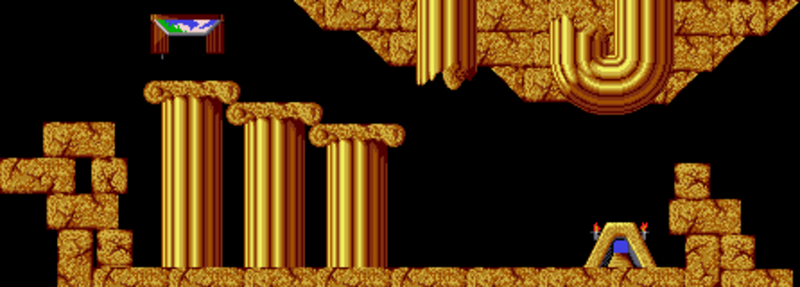
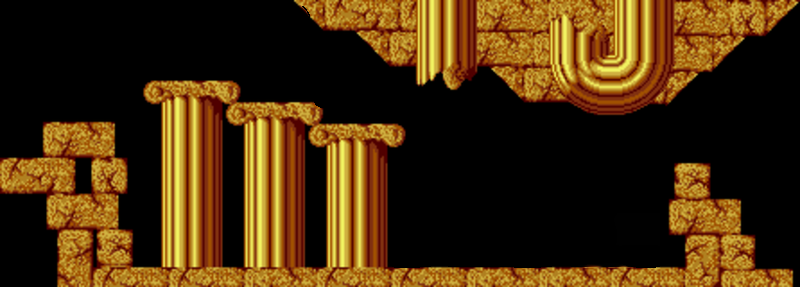
se acomodaron entradas y salidas de los niveles

Changed region(s): [[0.7188, 0.7526, 0.8438, 0.9477], [0.1875, 0.0279, 0.2812, 0.1951]]

diff --git a/src/lemmings/modelo/Nivel.java b/src/lemmings/modelo/Nivel.java
@@ -61,8 +61,8 @@ public class Nivel {
                 this.cantidadLem = 10;
                 this.cantidadSpawns = this.cantidadLem;
                 this.objetivoLemmings = 2;// Color negro del fondo en Nivel1.png
-                this.salida = new Salida(232, 235, 80, 80);
-                this.entrada = new Entrada(280,20);
+                this.salida = new Salida(232, 245, 80, 80);
+                this.entrada = new Entrada(230,15);
                 this.mapa = new Mapa(mapaImagen, COLOR_FONDO);
                 this.lemmings = new ArrayList<>();
                 this.stockHabilidades = new Stock();
@@ -74,11 +74,11 @@ public class Nivel {
                 mapa.activarColisiones(false);
                 break;
             case 3:
-                this.cantidadLem = 5;
+                this.cantidadLem = 20;
                 this.cantidadSpawns = this.cantidadLem;
                 this.objetivoLemmings = 5;
-                this.salida = new Salida(580,200 , 80, 80);
-                this.entrada = new Entrada(260,20);
+                this.salida = new Salida(580,230 , 80, 80);
+                this.entrada = new Entrada(150,10);
                 this.mapa = new Mapa(mapaImagen, COLOR_FONDO);
                 this.lemmings = new ArrayList<>();
                 this.stockHabilidades = new Stock();
@@ -91,6 +91,23 @@ public class Nivel {
                 System.out.println("Salida en: " + salida.getX());
                 mapa.activarColisiones(false);
                 break;
+            case 4:
+                this.cantidadLem = 5;
+                this.cantidadSpawns = this.cantidadLem;
+                this.objetivoLemmings = 5;
+                this.salida = new Salida(580,230 , 80, 80);
+                this.entrada = new Entrada(150,10);
+                this.mapa = new Mapa(mapaImagen, COLOR_FONDO);
+                this.lemmings = new ArrayList<>();
+                this.stockHabilidades = new Stock();
+                this.tiempoInicio = System.currentTimeMillis();
+                stockHabilidades.añadirHabilidad("Minero",5);
+                stockHabilidades.añadirHabilidad("Paracaidas", 5);
+                stockHabilidades.añadirHabilidad("Bloqueador",10);
+                mapa.limpiarArea(salida.getX(), salida.getY(), salida.getAncho(), salida.getAlto(), COLOR_FONDO);
+                System.out.println("Entrada en: " + entrada);
+                System.out.println("Salida en: " + salida.getX());
+                mapa.activarColisiones(false);
             default:
                 this.salida = new Salida(650, 460, 80, 100);
         }
@@ -216,6 +233,7 @@ public class Nivel {
                 break;
             case "Bloqueador":
                 habilidad = new HabilidadBloqueador();
+                cantidadLem--;
                 break;
             // Agregá más habilidades acá
         }

diff --git a/src/lemmings/modelo/Lemming.java b/src/lemmings/modelo/Lemming.java
@@ -251,7 +251,7 @@ public class Lemming {
         }
 
         long ahora = System.currentTimeMillis();
-        boolean colisionTemporalmenteDesactivada = (ahora - tiempoCreacion) < 500;
+        boolean colisionTemporalmenteDesactivada = (ahora - tiempoCreacion) < 300;
 
         frameTick++;
         if (frameTick >= frameDelay) {
@@ -476,7 +476,6 @@ public class Lemming {
         this.habilidadActiva = null;
         this.ticksHabilidad = 0;
     }
-
     public EstadoLemming getEstado() {
         return estado;
     }
